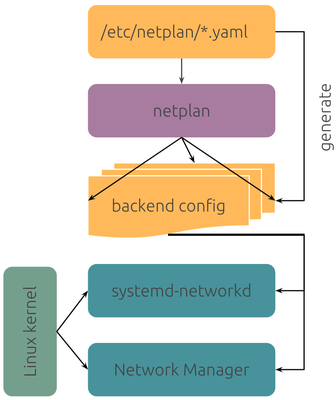
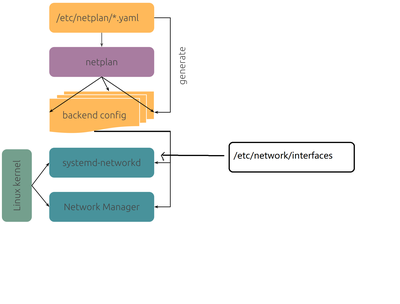
Nikola auto commit.
Source commit: a3b38f9fbc28e37fa0cfeb3633a79f359cc35ad5
Nikola version: 8.1.3

diff --git a/posts/linuxwang-luo-pei-zhi-wo-xiang-yi-ci-jiang-qing-chu/index.html b/posts/linuxwang-luo-pei-zhi-wo-xiang-yi-ci-jiang-qing-chu/index.html
@@ -23,7 +23,10 @@ linux网络配置复杂, 配置文件繁多, 因此经常产生困扰, 所以我
 
 简介
 Linux的网络工具架构如下:
-img">
+img
+总的来说, 主要有两套backend, 一个是network-manager, 一个是system-networkd, 
+network-manager vs system-networkd
+network-manager主要用于GUI环境下的网络配置,">
 <meta property="og:type" content="article">
 <meta property="article:published_time" content="2021-09-30T11:13:07+08:00">
 </head>
@@ -108,6 +111,41 @@ img">
 <h3 id="_2">简介</h3>
 <p>Linux的网络工具架构如下:</p>
 <p><a href="../../images/networking.png">img</a></p>
+<p>总的来说, 主要有两套backend, 一个是network-manager, 一个是system-networkd, </p>
+<p><strong>network-manager vs system-networkd</strong>
+network-manager主要用于GUI环境下的网络配置, system-networkd主要用于server环境下的网路配置, 但作用是一样的, 在netplan的术语中, 它们只是render, 即读取配置文件, 将需要配置的网络环境渲染出来</p>
+<h3 id="_3">配置文件</h3>
+<p><strong>传统配置文件</strong></p>
+<p>/etc/network/interfaces是system-networkd的配置文件, 下面是一个典型的interfaces配置</p>
+<pre class="code literal-block"># lab_host2:/etc/network/interfaces
+auto lo
+iface lo inet loopback
+
+auto br0
+iface br0 inet dhcp
+    bridge-ports enp0s31f6    
+
+iface enp0s31f6 inet manual
+</pre>
+<p>nmcli: 是network-manager的命令行配置工具</p>
+<p><strong>netplan</strong></p>
+<p>netplan的好处在于为system-networkd和network-manager提供了一致的配置文件, 从而避免两个render间的冲突, 在netplan中, 我们可以通过renderer关键词指定renderer, 除此之外的语法都是一致的</p>
+<p>如下, 是一个典型的netplan配置文件, 指定renderer为networkd</p>
+<pre class="code literal-block"><span class="c1"># lab_host3:/etc/netplan/01-netcfg.yaml</span>
+<span class="nt">network</span><span class="p">:</span>
+  <span class="nt">version</span><span class="p">:</span> <span class="l l-Scalar l-Scalar-Plain">2</span>
+  <span class="nt">renderer</span><span class="p">:</span> <span class="l l-Scalar l-Scalar-Plain">networkd</span>
+  <span class="nt">ethernets</span><span class="p">:</span>
+    <span class="nt">enp0s31f6</span><span class="p">:</span>
+      <span class="nt">dhcp4</span><span class="p">:</span> <span class="l l-Scalar l-Scalar-Plain">yes</span>
+      <span class="nt">dhcp6</span><span class="p">:</span> <span class="l l-Scalar l-Scalar-Plain">yes</span>
+  <span class="nt">bridges</span><span class="p">:</span>
+    <span class="nt">br0</span><span class="p">:</span>
+      <span class="nt">dhcp4</span><span class="p">:</span> <span class="l l-Scalar l-Scalar-Plain">yes</span>
+      <span class="nt">dhcp6</span><span class="p">:</span> <span class="l l-Scalar l-Scalar-Plain">yes</span>
+      <span class="nt">interfaces</span><span class="p">:</span>
+        <span class="p p-Indicator">-</span> <span class="l l-Scalar l-Scalar-Plain">enp0s31f6</span>
+</pre>
 </div>
     </div>
     <aside class="postpromonav"><nav><ul class="pager hidden-print">

diff --git a/index.html b/index.html
@@ -90,6 +90,41 @@
 <h3 id="_2">简介</h3>
 <p>Linux的网络工具架构如下:</p>
 <p><a href="images/networking.png">img</a></p>
+<p>总的来说, 主要有两套backend, 一个是network-manager, 一个是system-networkd, </p>
+<p><strong>network-manager vs system-networkd</strong>
+network-manager主要用于GUI环境下的网络配置, system-networkd主要用于server环境下的网路配置, 但作用是一样的, 在netplan的术语中, 它们只是render, 即读取配置文件, 将需要配置的网络环境渲染出来</p>
+<h3 id="_3">配置文件</h3>
+<p><strong>传统配置文件</strong></p>
+<p>/etc/network/interfaces是system-networkd的配置文件, 下面是一个典型的interfaces配置</p>
+<pre class="code literal-block"># lab_host2:/etc/network/interfaces
+auto lo
+iface lo inet loopback
+
+auto br0
+iface br0 inet dhcp
+    bridge-ports enp0s31f6    
+
+iface enp0s31f6 inet manual
+</pre>
+<p>nmcli: 是network-manager的命令行配置工具</p>
+<p><strong>netplan</strong></p>
+<p>netplan的好处在于为system-networkd和network-manager提供了一致的配置文件, 从而避免两个render间的冲突, 在netplan中, 我们可以通过renderer关键词指定renderer, 除此之外的语法都是一致的</p>
+<p>如下, 是一个典型的netplan配置文件, 指定renderer为networkd</p>
+<pre class="code literal-block"><span class="c1"># lab_host3:/etc/netplan/01-netcfg.yaml</span>
+<span class="nt">network</span><span class="p">:</span>
+  <span class="nt">version</span><span class="p">:</span> <span class="l l-Scalar l-Scalar-Plain">2</span>
+  <span class="nt">renderer</span><span class="p">:</span> <span class="l l-Scalar l-Scalar-Plain">networkd</span>
+  <span class="nt">ethernets</span><span class="p">:</span>
+    <span class="nt">enp0s31f6</span><span class="p">:</span>
+      <span class="nt">dhcp4</span><span class="p">:</span> <span class="l l-Scalar l-Scalar-Plain">yes</span>
+      <span class="nt">dhcp6</span><span class="p">:</span> <span class="l l-Scalar l-Scalar-Plain">yes</span>
+  <span class="nt">bridges</span><span class="p">:</span>
+    <span class="nt">br0</span><span class="p">:</span>
+      <span class="nt">dhcp4</span><span class="p">:</span> <span class="l l-Scalar l-Scalar-Plain">yes</span>
+      <span class="nt">dhcp6</span><span class="p">:</span> <span class="l l-Scalar l-Scalar-Plain">yes</span>
+      <span class="nt">interfaces</span><span class="p">:</span>
+        <span class="p p-Indicator">-</span> <span class="l l-Scalar l-Scalar-Plain">enp0s31f6</span>
+</pre>
 </div>
                 </div>
             </article><article class="h-entry post-text" itemscope="itemscope" itemtype="http://schema.org/Article"><header><h1 class="p-name entry-title"><a href="posts/dockerjuan-de-bei-fen-yu-qian-yi/" class="u-url">docker命名卷的备份与迁移</a></h1>

diff --git a/posts/linuxwang-luo-pei-zhi-wo-xiang-yi-ci-jiang-qing-chu/index.md b/posts/linuxwang-luo-pei-zhi-wo-xiang-yi-ci-jiang-qing-chu/index.md
@@ -18,3 +18,53 @@
 Linux的网络工具架构如下:
 
 [img](/images/networking.png)
+
+总的来说, 主要有两套backend, 一个是network-manager, 一个是system-networkd, 
+
+**network-manager vs system-networkd**
+network-manager主要用于GUI环境下的网络配置, system-networkd主要用于server环境下的网路配置, 但作用是一样的, 在netplan的术语中, 它们只是render, 即读取配置文件, 将需要配置的网络环境渲染出来
+
+
+## 配置文件
+
+**传统配置文件**
+
+/etc/network/interfaces是system-networkd的配置文件, 下面是一个典型的interfaces配置
+
+```
+# lab_host2:/etc/network/interfaces
+auto lo
+iface lo inet loopback
+
+auto br0
+iface br0 inet dhcp
+    bridge-ports enp0s31f6    
+
+iface enp0s31f6 inet manual
+```
+
+
+nmcli: 是network-manager的命令行配置工具
+
+**netplan**
+
+netplan的好处在于为system-networkd和network-manager提供了一致的配置文件, 从而避免两个render间的冲突, 在netplan中, 我们可以通过renderer关键词指定renderer, 除此之外的语法都是一致的
+
+如下, 是一个典型的netplan配置文件, 指定renderer为networkd
+
+```yaml
+# lab_host3:/etc/netplan/01-netcfg.yaml
+network:
+  version: 2
+  renderer: networkd
+  ethernets:
+    enp0s31f6:
+      dhcp4: yes
+      dhcp6: yes
+  bridges:
+    br0:
+      dhcp4: yes
+      dhcp6: yes
+      interfaces:
+        - enp0s31f6
+```
